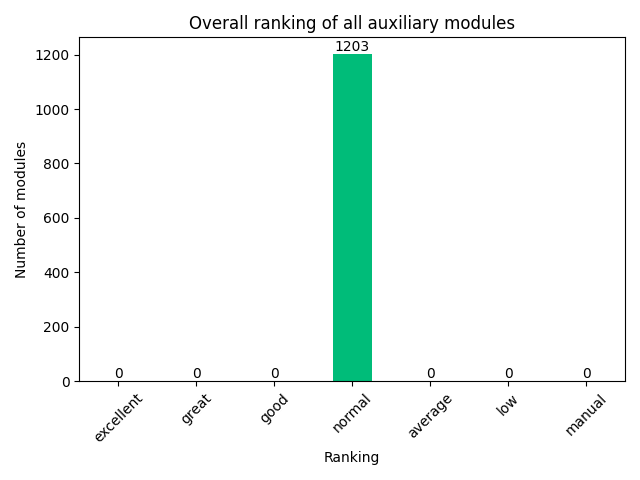
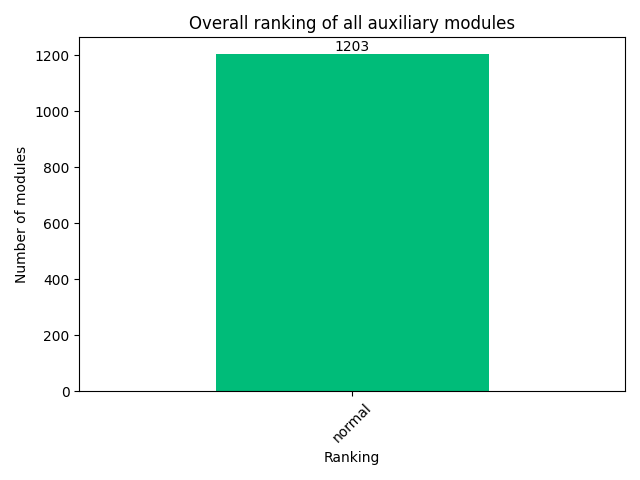
Exclude bars with value 0

diff --git a/plots/create_plots.py b/plots/create_plots.py
@@ -14,6 +14,9 @@ def generate_rankings_plot(module):
     # Reindex to add missing ranks and fill NaN values with 0
     df = df.reindex(rank_order, fill_value=0)
 
+    # Exclude bars with 0 value
+    df = df[df != 0]
+
     # Plot the data using bar() method
     ax = df.plot.bar(color="#00bc79") 
     ax.bar_label(ax.containers[0])
